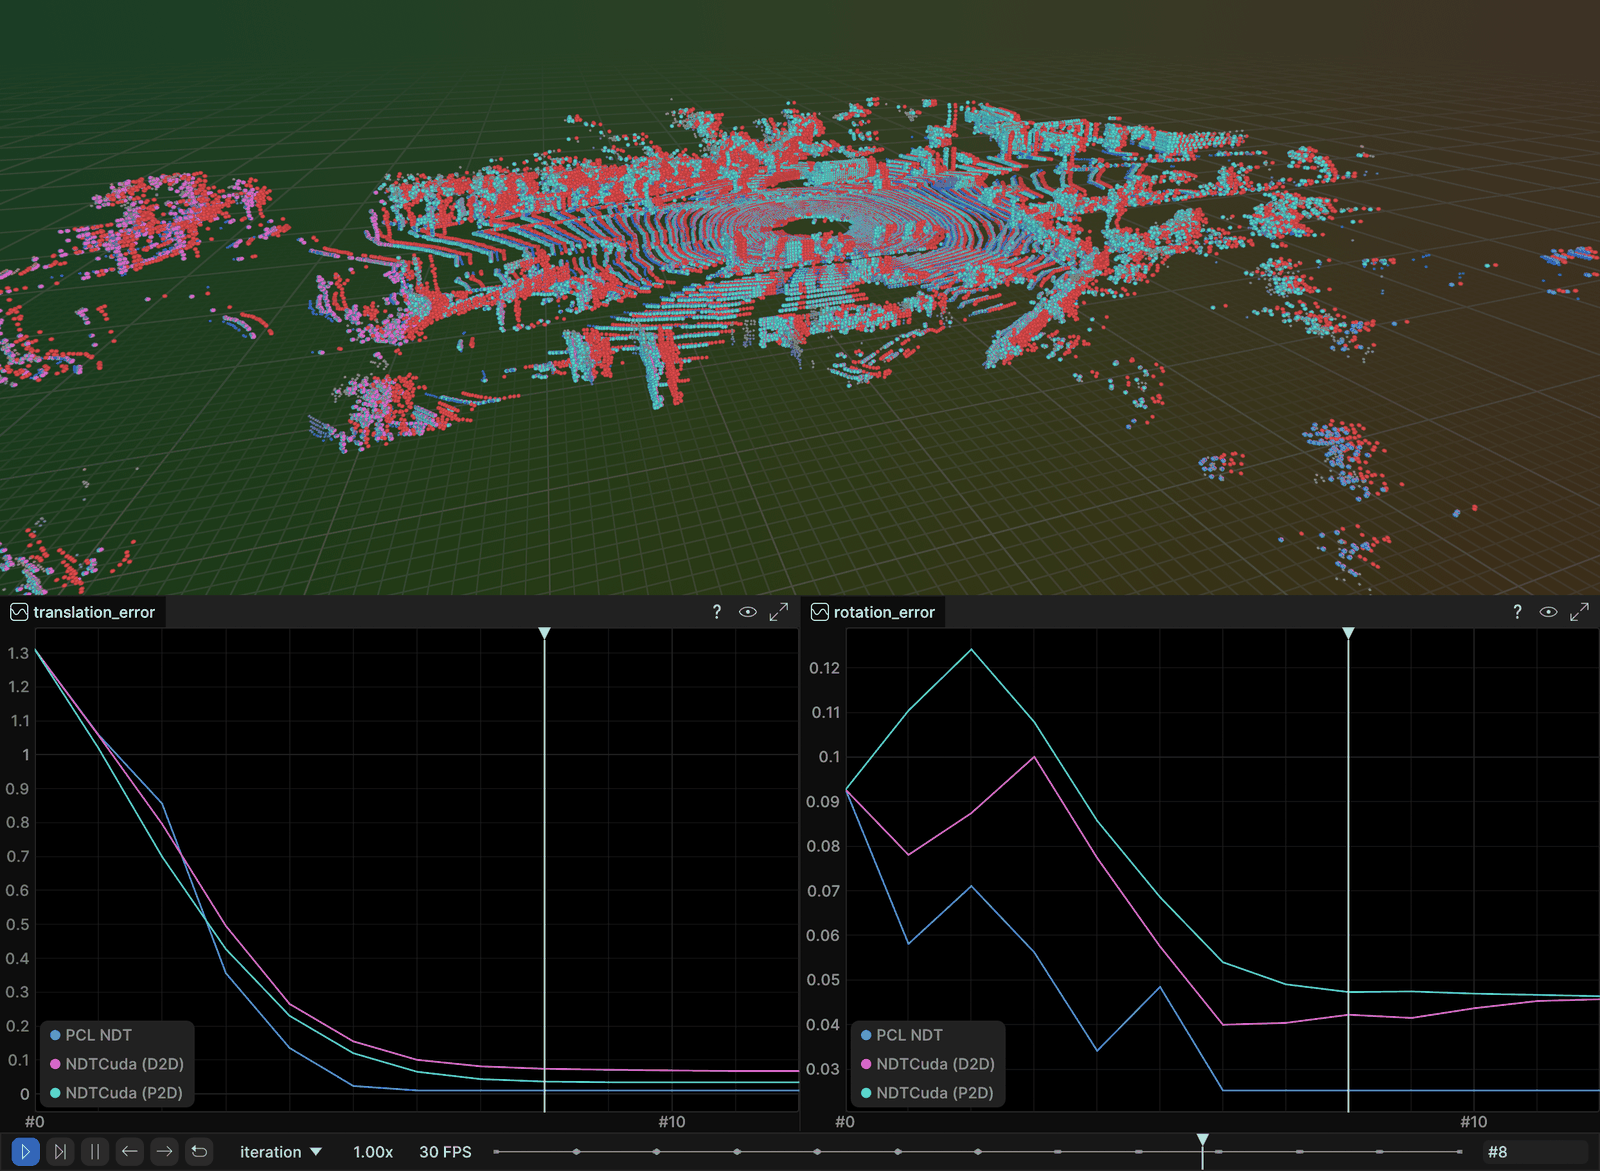
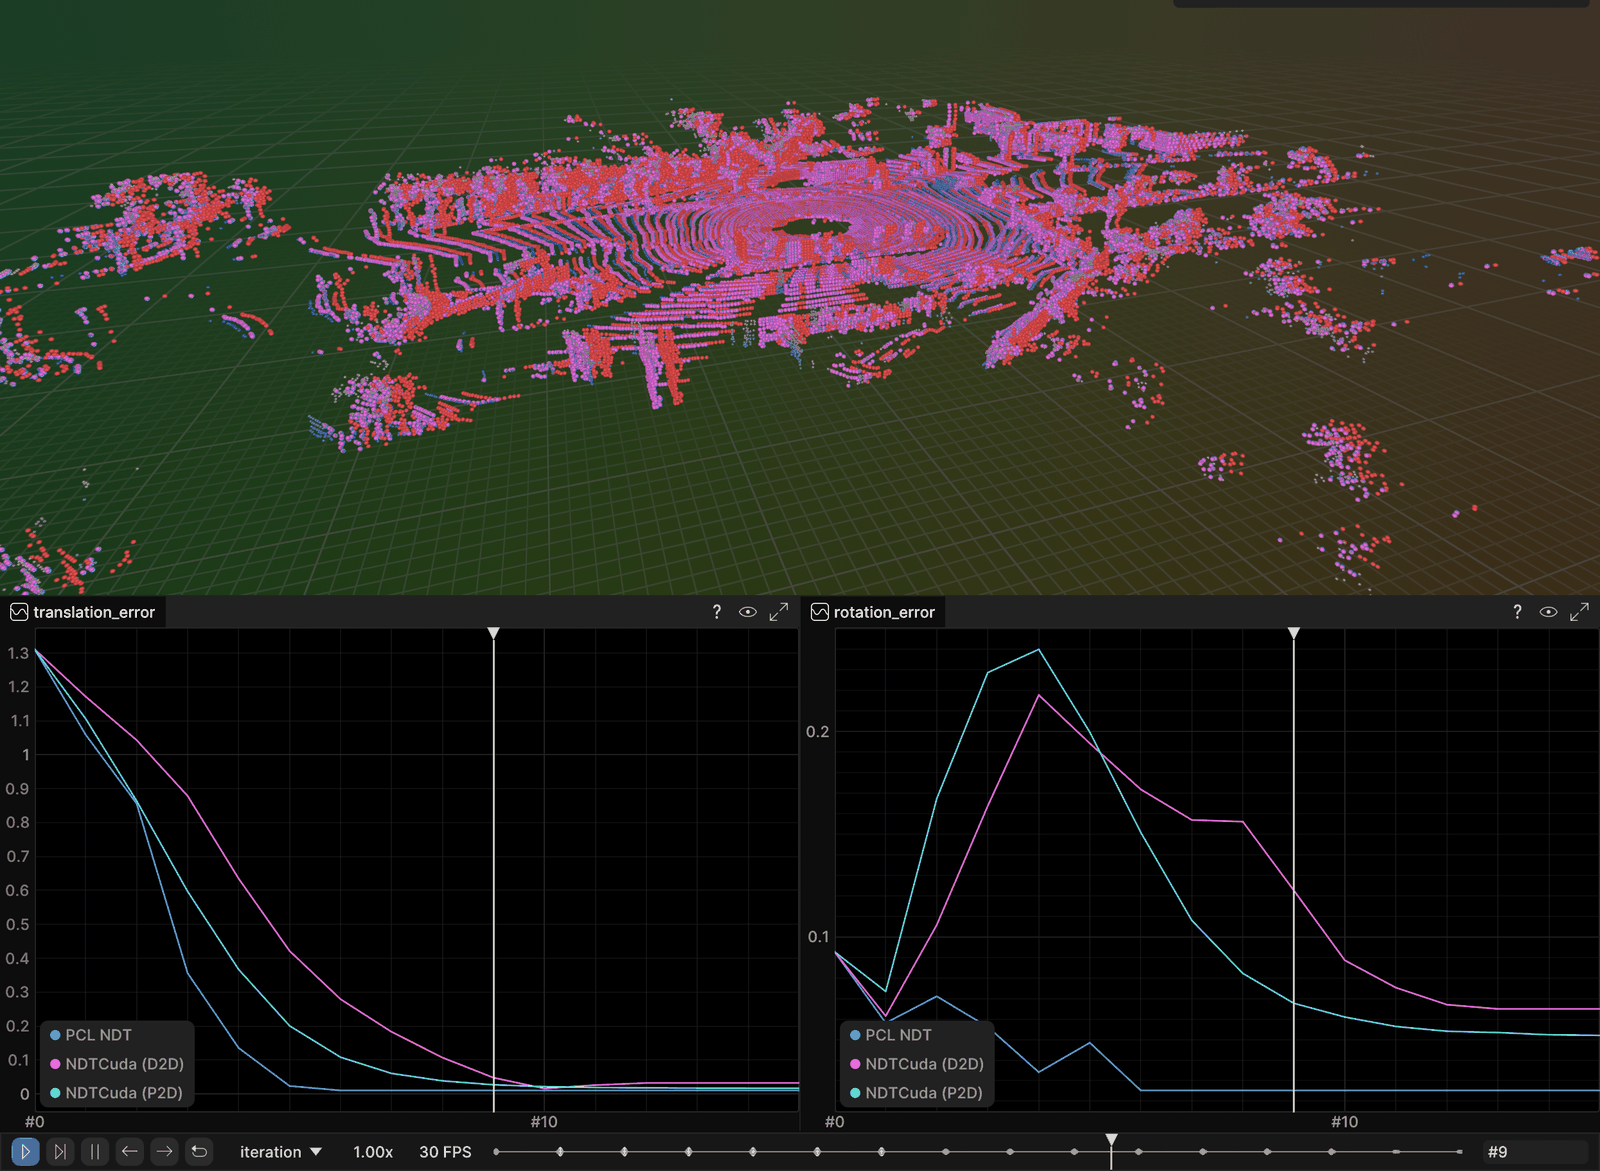
part2_ch03_07: give NDT's two backends their own cell size
Both ran at 1.0 m, which handicapped the GPU: the resolution study already showed the
two peaking in different places, and the headline table then compared PCL at its good
value against NDTCuda at a bad one. Each now runs where it is actually best - PCL at
1.0 m, NDTCuda at 0.75 m - and a cell size on the command line still forces one value
on both, since asking for a number means wanting them compared at it.

D2D 0.0673 -> 0.0336 m and P2D 0.0345 -> 0.0172 m, so P2D against PCL NDT goes from
3.3x less accurate to 1.7x, at 21x the speed. Most of the gap the chapter reported was
a tuning artifact rather than anything about the implementations.

The sweep had to be fixed before it could answer this. It ran {0.5, 1, 2, 3, 5} and
both CUDA modes were best at 0.5 - the bottom of the range - so the optimum had never
been located, only bounded. Extended to {0.25 ... 5} and widened to cover P2D as well
as D2D, which turned up something the old range hid: at 0.50 m, D2D's nominally most
accurate row does not report convergence, and P2D fails outright at 1.2271 m. Taking
the edge of the old sweep at face value would have shipped a non-converging default.
0.75 m is the best *converged* value for both modes.

Worth keeping in view, and now in the README: the GPU's optimum sits one step from
that cliff, while PCL's 2.0 m optimum is comfortably mid-range with everything from
1.0 to 5.0 m working. For a real pipeline that asymmetry matters more than the peak.
[…]

diff --git a/SLAM_zero_to_hero/part2_ch03_07/examples/ndt_demo.cpp b/SLAM_zero_to_hero/part2_ch03_07/examples/ndt_demo.cpp
@@ -1,31 +1,17 @@
 /**
  * NDT experiment: PCL's CPU NDT against fast_gicp's CUDA NDT
  *
- * The Normal Distributions Transform represents the target as a grid of
- * Gaussians instead of a set of points, so there are no explicit
- * correspondences to search for - which is exactly the shape of problem a GPU
- * likes. This demo puts the two implementations side by side.
+ * Only these two exist to compare: NDTCuda is the only NDT in fast_gicp and is
+ * CUDA-gated, and small_gicp has no NDT at all - its VGICP is GICP against a
+ * voxel map, a different cost function, not NDT renamed.
  *
- * Why these two and not others: NDTCuda is the ONLY NDT in fast_gicp and it is
- * unconditionally CUDA-gated, and small_gicp has no NDT at all - its VGICP is
- * GICP against a voxel map, a different cost function, not NDT by another name.
- * So a CPU-vs-GPU NDT comparison means PCL against fast_gicp, and there is no
- * third option to add.
- *
- * The GPU is much faster here. It is also, on this data, less accurate - which
- * is the more useful lesson, and the reason both columns are reported rather
- * than just the timings.
- *
- * fast_gicp's NDT offers two distance modes:
+ * fast_gicp's two distance modes:
  *   P2D  source points against the target's voxel distributions (classic NDT)
- *   D2D  the source is voxelized too, and distributions are matched against
- *        distributions. This is fast_gicp's default.
+ *   D2D  source voxelized too, distribution against distribution. The default.
  *
- * Runs on two KITTI velodyne scans and scores everything against the KITTI
- * ground-truth poses. With no arguments it uses the pair bundled with this
- * chapter (sequence 04, frames 0 and 1, 1.31 m apart).
+ * The GPU is much faster and, on this data, less accurate - hence both columns.
  *
- * Usage: ./ndt_demo [source.bin target.bin [resolution]]
+ * Usage: ./ndt_demo [source.bin target.bin [resolution]]   (no args: bundled pair)
  *
  * Reference: Biber & Strasser, "The Normal Distributions Transform", IROS 2003
  */
@@ -51,7 +37,13 @@ using PointT = pcl::PointXYZ;
 using CloudT = pcl::PointCloud<PointT>;
 
 constexpr float kVoxelLeaf = 0.3f;
+
+/// The two backends do not peak at the same cell size, so each runs at its own -
+/// a shared value only handicaps whichever it does not suit. See the resolution
+/// study: PCL is best at 2.0 m and stalls below 1.0 m, while both CUDA modes peak
+/// at 0.75 m and fall apart at 0.5 m.
 constexpr float kNdtResolution = 1.0f;
+constexpr float kCudaNdtResolution = 0.75f;
 
 /// More-Thuente maximum step length, for PCL's NDT. 0.1 m - the value indoor
 /// NDT examples use - is shorter than TransformationEpsilon at KITTI's 1.3-1.5 m
@@ -110,7 +102,7 @@ std::unique_ptr<CudaNdt> makeCudaNdt(float resolution,
 }
 
 void warmUpGpu(const demo::KittiPair& pair) {
-    auto reg = makeCudaNdt(kNdtResolution, fast_gicp::NDTDistanceMode::D2D);
+    auto reg = makeCudaNdt(kCudaNdtResolution, fast_gicp::NDTDistanceMode::D2D);
     reg->setMaximumIterations(2);
     reg->setInputTarget(pair.target);
     reg->setInputSource(pair.source);
@@ -118,17 +110,21 @@ void warmUpGpu(const demo::KittiPair& pair) {
     reg->align(aligned);
 }
 
-void compareBackends(const demo::KittiPair& pair, float resolution,
-                     demo::RegistrationViz* viz) {
+void compareBackends(const demo::KittiPair& pair, float pcl_resolution,
+                     float cuda_resolution, demo::RegistrationViz* viz) {
     std::cout << "\n=== Experiment 2: CPU NDT vs CUDA NDT ===" << std::endl;
-    std::cout << "Identity initial guess, resolution " << resolution << " m.\n"
+    std::cout << "Identity initial guess. Each backend runs at its own best cell"
               << std::endl;
+    std::cout << "size - PCL " << std::fixed << std::setprecision(2) << pcl_resolution
+              << " m, CUDA " << cuda_resolution << " m - since they do not peak at"
+              << std::endl;
+    std::cout << "the same value. See the resolution study below.\n" << std::endl;
 
     std::vector<demo::RunResult> results;
     std::vector<demo::ErrorTrace> traces;
 
     demo::ErrorTrace pcl_trace;
-    auto pcl_result = runPclNdt(pair, resolution, kNdtStepSize,
+    auto pcl_result = runPclNdt(pair, pcl_resolution, kNdtStepSize,
                                 Eigen::Matrix4f::Identity(), viz, &pcl_trace);
     results.push_back(pcl_result);
     traces.push_back(pcl_trace);
@@ -144,7 +140,7 @@ void compareBackends(const demo::KittiPair& pair, float resolution,
         const auto& color = (i == 0) ? kD2dColor : kP2dColor;
 
         std::vector<demo::TracedStep> poses;
-        auto reg = makeCudaNdt(resolution, mode);
+        auto reg = makeCudaNdt(cuda_resolution, mode);
         auto r = demo::runFastGicp(name, *reg, pair.source, pair.target,
                                    pair.ground_truth, Eigen::Matrix4f::Identity(),
                                    &poses);
@@ -190,19 +186,32 @@ void testResolution(const demo::KittiPair& pair) {
               << std::setw(13) << "Total (ms)" << std::endl;
     std::cout << std::string(104, '-') << std::endl;
 
+    // The sweep runs below the 0.5 m the two CUDA modes prefer, so their optimum
+    // is located rather than assumed to sit at the edge of the range.
+    const std::vector<float> resolutions{0.25f, 0.5f, 0.75f, 1.0f, 2.0f, 3.0f, 5.0f};
+
+    const auto label = [](const char* backend, float resolution) {
+        std::ostringstream out;
+        out << backend << " " << std::fixed << std::setprecision(2) << resolution << " m";
+        return out.str();
+    };
+
     std::vector<demo::RunResult> results;
-    for (float resolution : {0.5f, 1.0f, 2.0f, 3.0f, 5.0f}) {
-        std::ostringstream label;
-        label << "PCL " << std::fixed << std::setprecision(1) << resolution << " m";
+    for (float resolution : resolutions) {
         results.push_back(runPclNdt(pair, resolution, kNdtStepSize,
                                     Eigen::Matrix4f::Identity(), nullptr, nullptr,
-                                    label.str()));
+                                    label("PCL", resolution)));
     }
-    for (float resolution : {0.5f, 1.0f, 2.0f, 3.0f, 5.0f}) {
-        std::ostringstream label;
-        label << "CUDA D2D " << std::fixed << std::setprecision(1) << resolution << " m";
+    for (float resolution : resolutions) {
         auto reg = makeCudaNdt(resolution, fast_gicp::NDTDistanceMode::D2D);
-        results.push_back(demo::runFastGicp(label.str(), *reg, pair.source, pair.target,
+        results.push_back(demo::runFastGicp(label("CUDA D2D", resolution), *reg,
+                                            pair.source, pair.target,
+                                            pair.ground_truth));
+    }
+    for (float resolution : resolutions) {
+        auto reg = makeCudaNdt(resolution, fast_gicp::NDTDistanceMode::P2D);
+        results.push_back(demo::runFastGicp(label("CUDA P2D", resolution), *reg,
+                                            pair.source, pair.target,
                                             pair.ground_truth));
     }
 
@@ -293,7 +302,7 @@ void testInitialGuess(const demo::KittiPair& pair) {
         std::vector<demo::RunResult> results;
         results.push_back(runPclNdt(pair, kNdtResolution, kNdtStepSize, guess));
         {
-            auto reg = makeCudaNdt(kNdtResolution, fast_gicp::NDTDistanceMode::D2D);
+            auto reg = makeCudaNdt(kCudaNdtResolution, fast_gicp::NDTDistanceMode::D2D);
             results.push_back(demo::runFastGicp("NDTCuda (D2D)", *reg, pair.source,
                                                 pair.target, gt, guess));
         }
@@ -320,7 +329,8 @@ void printUsage(const char* prog_name) {
     std::cout << "  source target     - Use the given KITTI velodyne .bin (or .pcd) scans"
               << std::endl;
     std::cout << "  resolution        - NDT cell size in meters (default "
-              << kNdtResolution << ")" << std::endl;
+              << kNdtResolution << " PCL / " << kCudaNdtResolution
+              << " CUDA; giving one applies it to both)" << std::endl;
 }
 
 }  // namespace
@@ -340,11 +350,16 @@ int main(int argc, char** argv) {
         return -1;
     }
 
-    const float resolution = (argc == 4) ? std::stof(argv[3]) : kNdtResolution;
+    // An explicit cell size on the command line applies to both backends, since
+    // asking for one value means wanting them compared at it. Without it each
+    // takes its own tuned default.
+    const bool shared = (argc == 4);
+    const float pcl_resolution = shared ? std::stof(argv[3]) : kNdtResolution;
+    const float cuda_resolution = shared ? std::stof(argv[3]) : kCudaNdtResolution;
 
     demo::printKittiPair(pair);
-    std::cout << "  NDT resolution: " << std::fixed << std::setprecision(3) << resolution
-              << " m" << std::endl;
+    std::cout << "  NDT resolution: PCL " << std::fixed << std::setprecision(2)
+              << pcl_resolution << " m, CUDA " << cuda_resolution << " m" << std::endl;
 
     std::cout << "\nVoxel-downsampling to " << kVoxelLeaf << " m..." << std::endl;
     const std::size_t source_raw = pair.source->size();
@@ -362,7 +377,7 @@ int main(int argc, char** argv) {
               << std::endl;
     warmUpGpu(pair);
 
-    compareBackends(pair, resolution, &viz);
+    compareBackends(pair, pcl_resolution, cuda_resolution, &viz);
     testResolution(pair);
     testStepSize(pair);
     testInitialGuess(pair);

diff --git a/SLAM_zero_to_hero/part2_ch03_07/README.md b/SLAM_zero_to_hero/part2_ch03_07/README.md
@@ -79,7 +79,9 @@ Each demo takes two KITTI scans, or none at all to use the bundled pair.
 
 ```bash
 ./build/gicp_demo                             # experiment 1
-./build/ndt_demo                              # experiment 2, optional 3rd arg: cell size (m)
+./build/ndt_demo                              # experiment 2; a 3rd arg forces one
+                                              # cell size on both backends, which
+                                              # otherwise use their own best
 ./build/teaser_demo                           # experiment 3
 ```
 
@@ -118,13 +120,47 @@ docker run --rm \
 
 ### Experiment 2 — NDT
 
-| Method | Trans err | Rot err | Iters | Prep | Align | **Total** |
-|---|---|---|---|---|---|---|
-| PCL NDT | 0.0103 m | 0.0252° | 6 | 2.2 ms | 283.5 ms | **285.7 ms** |
-| NDTCuda (D2D) | 0.0676 m | 0.0457° | 12 | 0.2 ms | 5.3 ms | **5.5 ms** |
-| NDTCuda (P2D) | 0.0344 m | 0.0465° | 12 | 0.2 ms | 5.2 ms | **5.3 ms** |
+Each backend runs at its own best cell size, because they do not peak at the same
+one — PCL at 1.0 m, NDTCuda at 0.75 m. A shared value just handicaps whichever it
+does not suit.
 
-At a shared 1.0 m resolution the GPU is 52× faster and 3–7× less accurate.
+| Method | Cell | Trans err | Rot err | Iters | Prep | Align | **Total** |
+|---|---|---|---|---|---|---|---|
+| PCL NDT | 1.0 m | 0.0103 m | 0.0252° | 6 | 2.2 ms | 303.2 ms | **305.5 ms** |
+| NDTCuda (D2D) | 0.75 m | 0.0336 m | 0.0650° | 13 | 0.5 ms | 7.6 ms | **8.2 ms** |
+| NDTCuda (P2D) | 0.75 m | 0.0172 m | 0.0505° | 14 | 0.2 ms | 14.1 ms | **14.3 ms** |
+
+So P2D is **21× faster and 1.7× less accurate** — a far better trade than it looks
+at a shared 1.0 m cell, where the same comparison reads 3.3×. D2D wanders a little
+between runs (0.029–0.034 m) because its CUDA accumulation sums in
+non-deterministic order; P2D is stable.
+
+#### Cell size
+
+The two backends want different cell sizes, and both have a cliff:
+
+| Cell | PCL NDT | NDTCuda D2D | NDTCuda P2D |
+|---|---|---|---|
+| 0.25 m | 1.3109 *(0 iters)* | 1.3109 *(never moves)* | 1.3109 *(never moves)* |
+| 0.50 m | 1.3115 *(1 iter)* | 0.0154 *(**not converged**)* | 1.2271 |
+| **0.75 m** | 1.2592 *(1 iter)* | **0.0289** | **0.0172** |
+| 1.00 m | 0.0103 | 0.0672 | 0.0343 |
+| 2.00 m | **0.0076** | 0.1528 | 0.0572 |
+| 3.00 m | 0.0154 | 0.3748 | 0.4768 *(not converged)* |
+| 5.00 m | 0.0122 | 0.6707 | 1.7465 *(not converged)* |
+
+They run in opposite directions: PCL improves as cells grow, peaking at 2.0 m, and
+stalls after a single iteration below 1.0 m. Both CUDA modes improve as cells
+shrink, peak at 0.75 m, and collapse at 0.5 m. Note the GPU's best value sits one
+step from that cliff — D2D at 0.50 m is nominally its most accurate row but does
+not report convergence, so it is not a defensible default. PCL's 2.0 m optimum sits
+comfortably mid-range, with everything from 1.0 to 5.0 m working.
+
+The residual accuracy gap is not a tuning artifact. PCL implements Magnusson's
+Gaussian-plus-uniform NDT score (`outlier_ratio_ = 0.55`), while fast_gicp uses the
+plainer Biber MLE with a robust kernel, says so in `ndt_compute_derivatives.cu`,
+and gathers neighbours with a 7-voxel cross where PCL does an isotropic radius
+search. Different objective, different optimum — no parameter closes it.
 
 ### Experiment 3 — TEASER++
 
@@ -176,13 +212,14 @@ the step axis and cost on this one.
 
 ### CPU NDT against CUDA NDT
 
-The same overlay for experiment 2 — PCL NDT blue, NDTCuda D2D magenta, NDTCuda P2D
-cyan, against the red starting position.
+The same overlay for experiment 2 — PCL NDT blue at 1.0 m, NDTCuda D2D magenta and
+P2D cyan at 0.75 m, against the red starting position.
 
 In `translation_error` the three settle in the order the table reports: PCL NDT
 lowest, then P2D, with D2D highest. `rotation_error` is the more interesting one —
-both CUDA curves climb above where they started before coming back down, so the
-GPU version gets its heading worse before it gets it better.
+both CUDA curves climb to roughly 0.25°, nearly three times their starting error,
+before coming back down. The GPU modes buy their translation by getting the
+heading badly wrong first, which is not visible anywhere in the summary table.
 
 ![](./images/ndt_demo.png)
 
